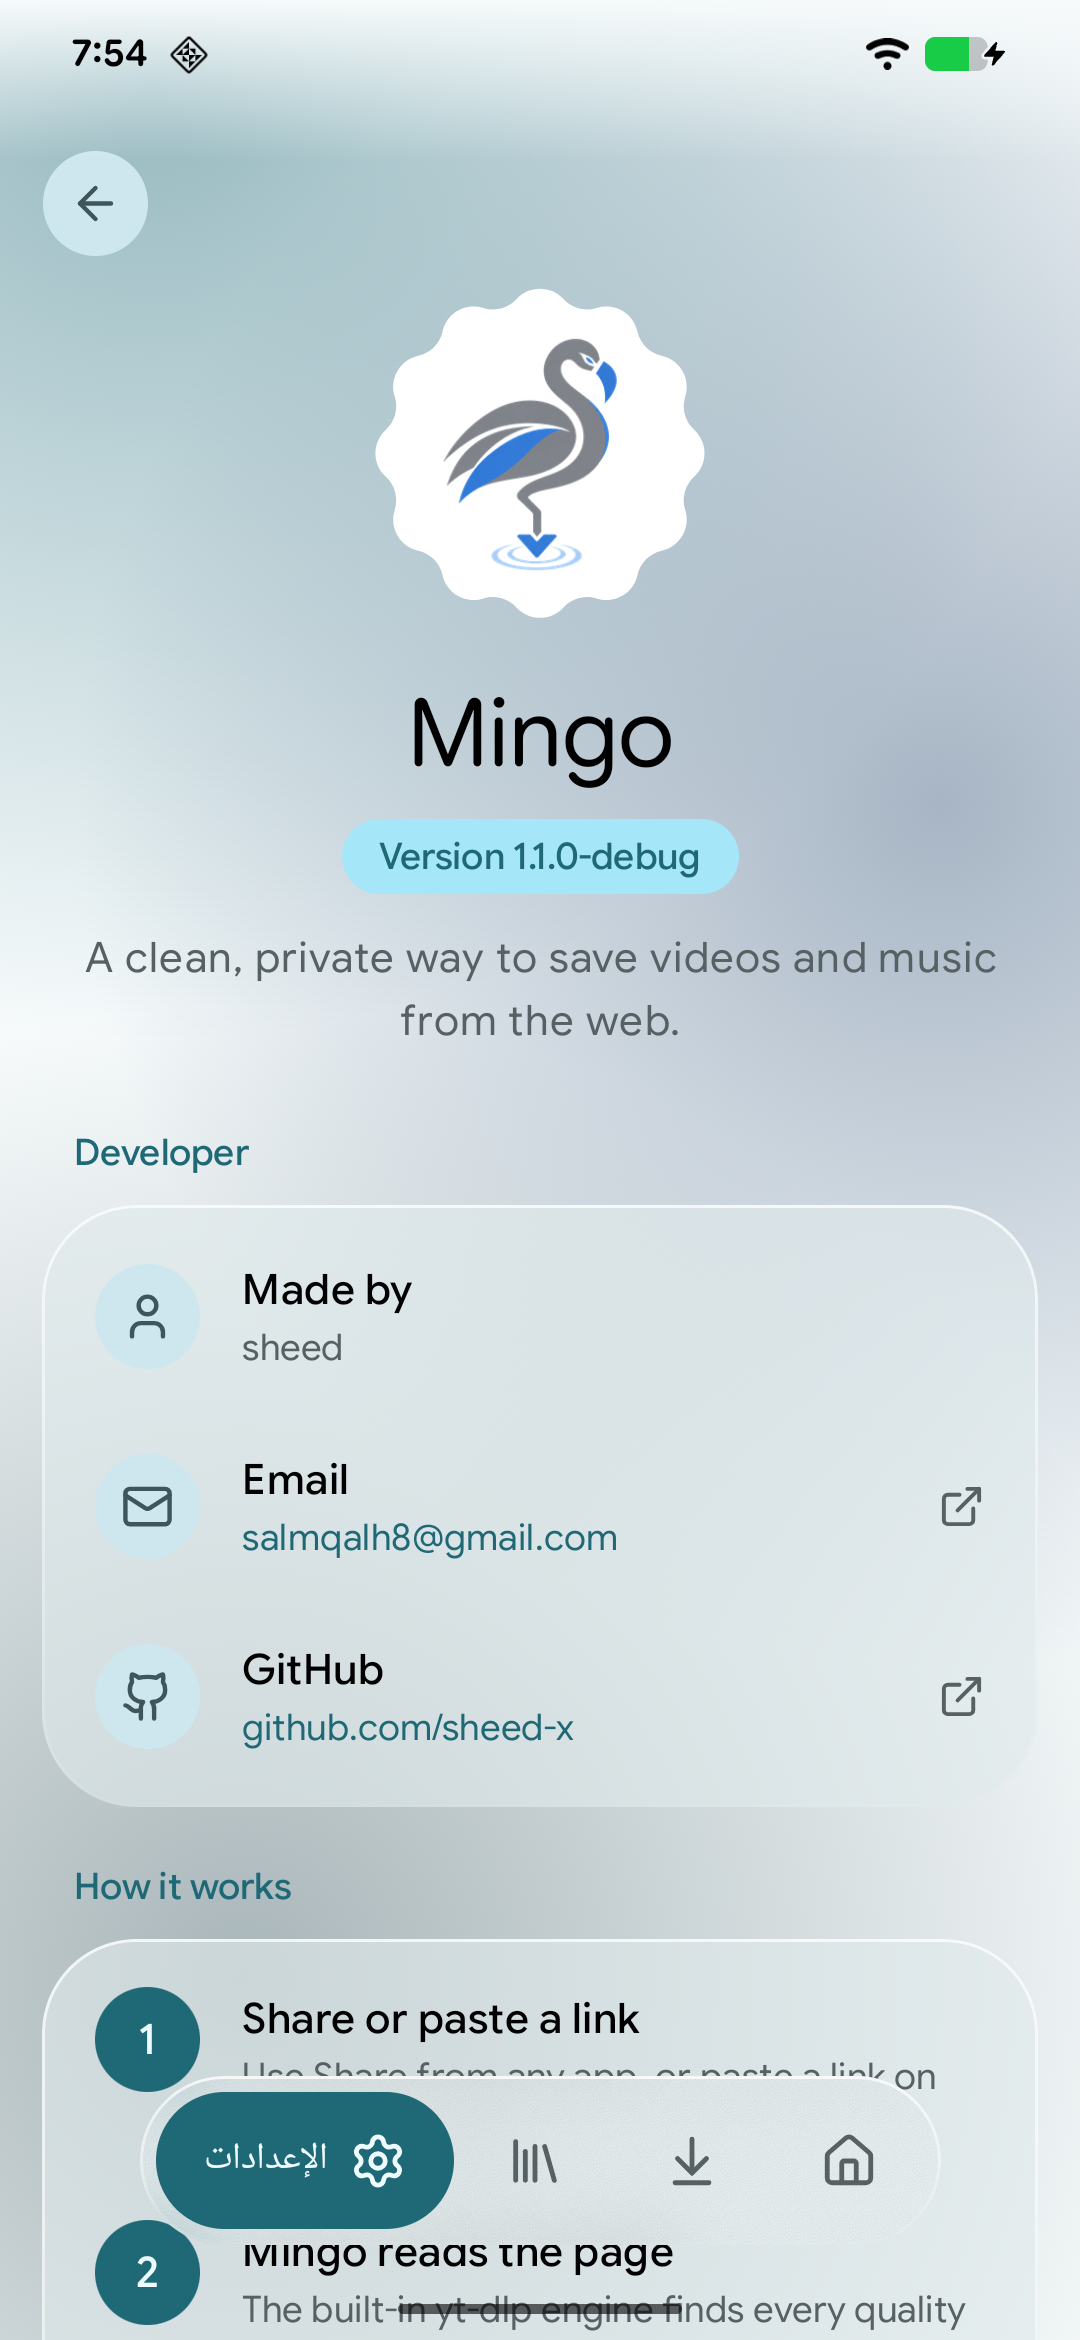
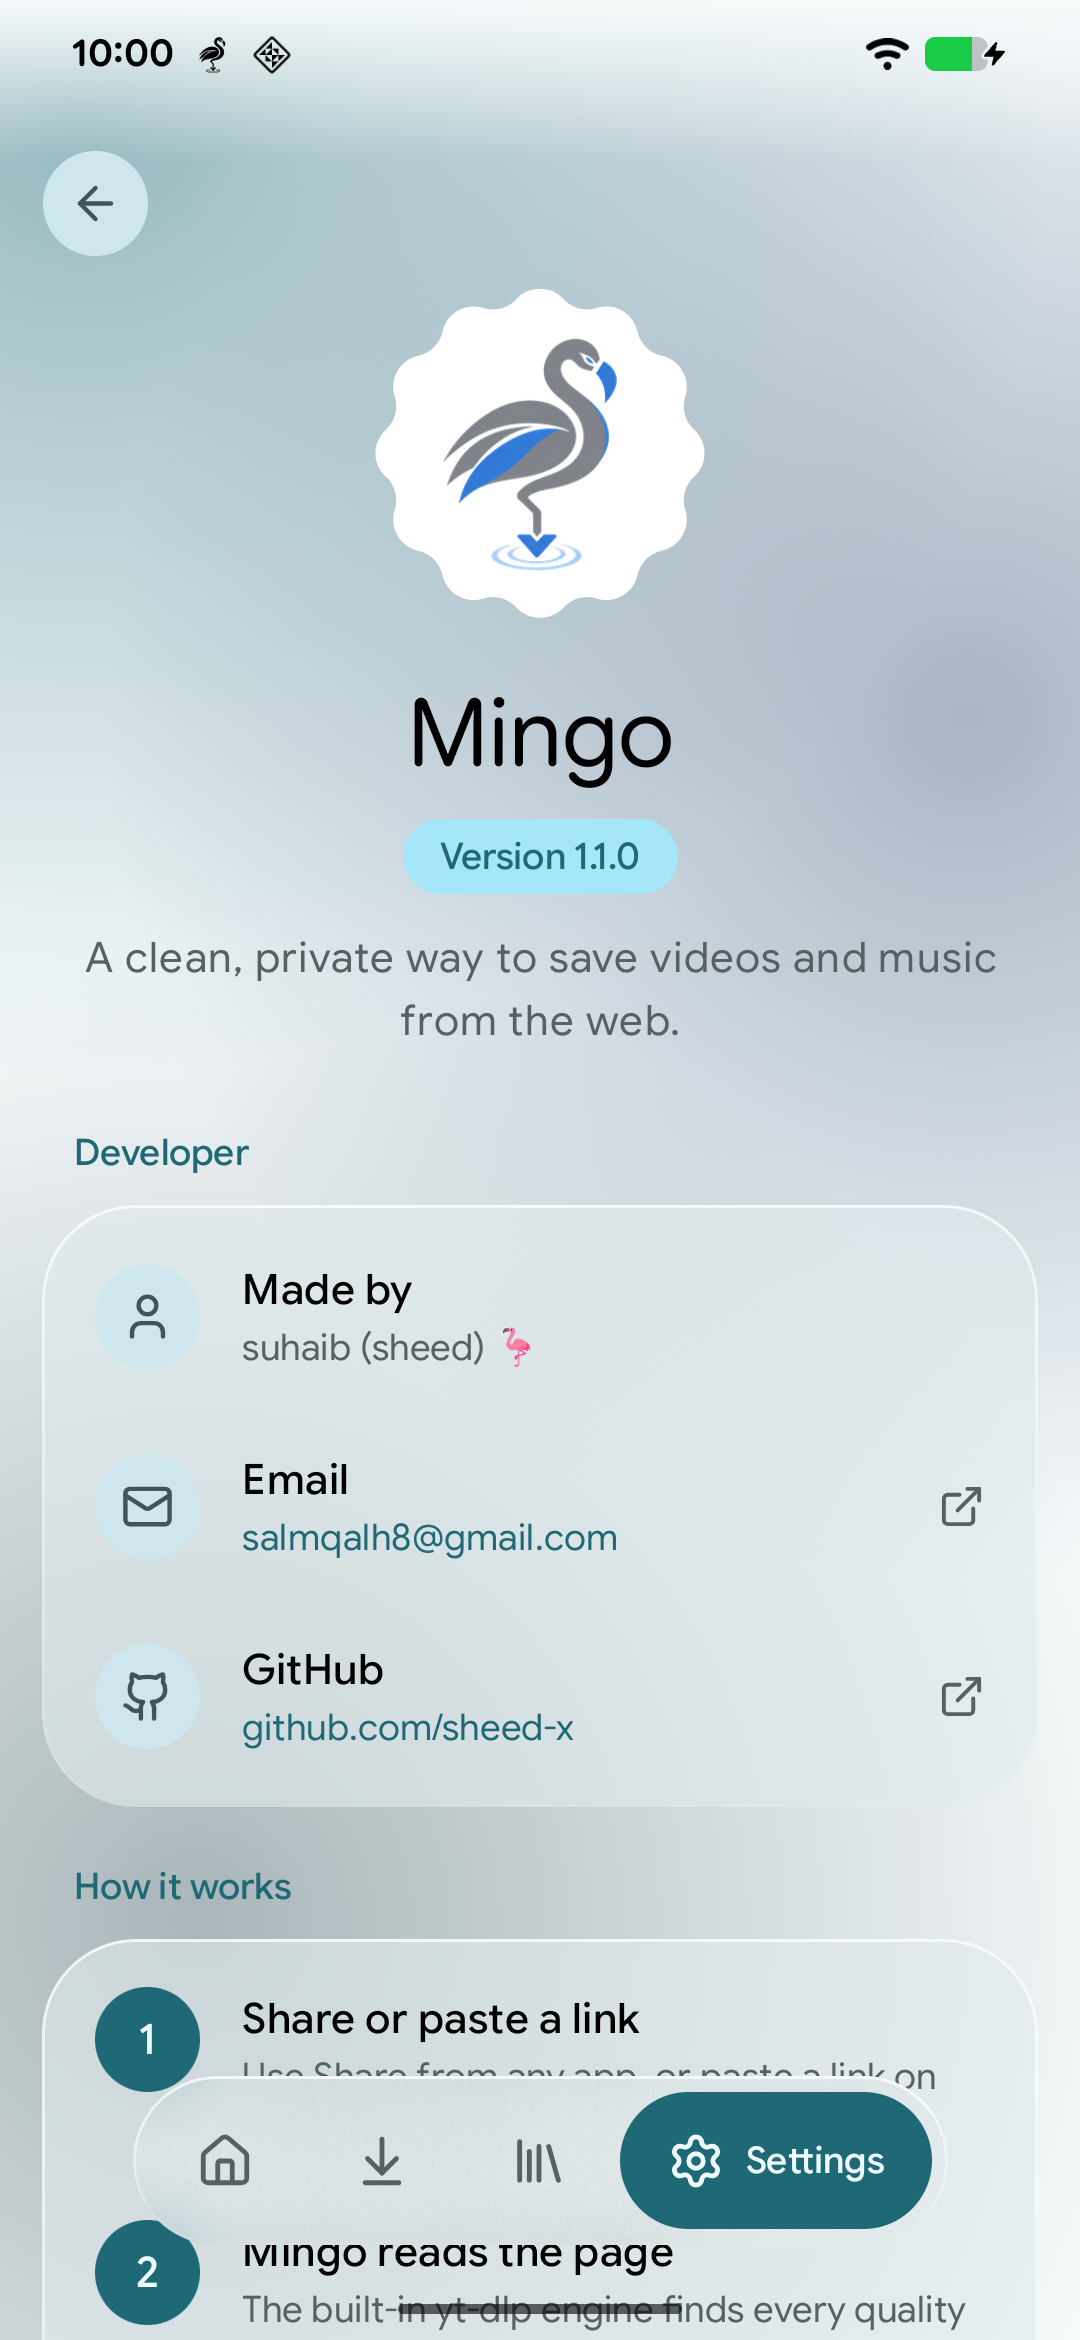
Refresh README screenshots from the 1.1.0 release build
Adds Downloads and Settings, and retakes every screen from the signed
release build on a Pixel 7 Pro.

diff --git a/README.md b/README.md
@@ -35,11 +35,11 @@ Paste or share a link from YouTube, TikTok, Instagram and 1,000+ other sites, pi
 
 ## 📸 Screenshots
 
-| Home | Share sheet | Library |
-|:---:|:---:|:---:|
-| <img src="docs/screenshots/home.png" width="240" /> | <img src="docs/screenshots/share-sheet.png" width="240" /> | <img src="docs/screenshots/library.png" width="240" /> |
-| **Arabic (RTL)** | **Clear errors** | **About** |
-| <img src="docs/screenshots/arabic.png" width="240" /> | <img src="docs/screenshots/errors.png" width="240" /> | <img src="docs/screenshots/about.png" width="240" /> |
+| Home | Share sheet | Library | Downloads |
+|:---:|:---:|:---:|:---:|
+| <img src="docs/screenshots/home.png" width="200" /> | <img src="docs/screenshots/share-sheet.png" width="200" /> | <img src="docs/screenshots/library.png" width="200" /> | <img src="docs/screenshots/downloads.png" width="200" /> |
+| **Settings** | **Arabic (RTL)** | **Clear errors** | **About** |
+| <img src="docs/screenshots/settings.png" width="200" /> | <img src="docs/screenshots/arabic.png" width="200" /> | <img src="docs/screenshots/errors.png" width="200" /> | <img src="docs/screenshots/about.png" width="200" /> |
 
 ## 📥 Download
 
